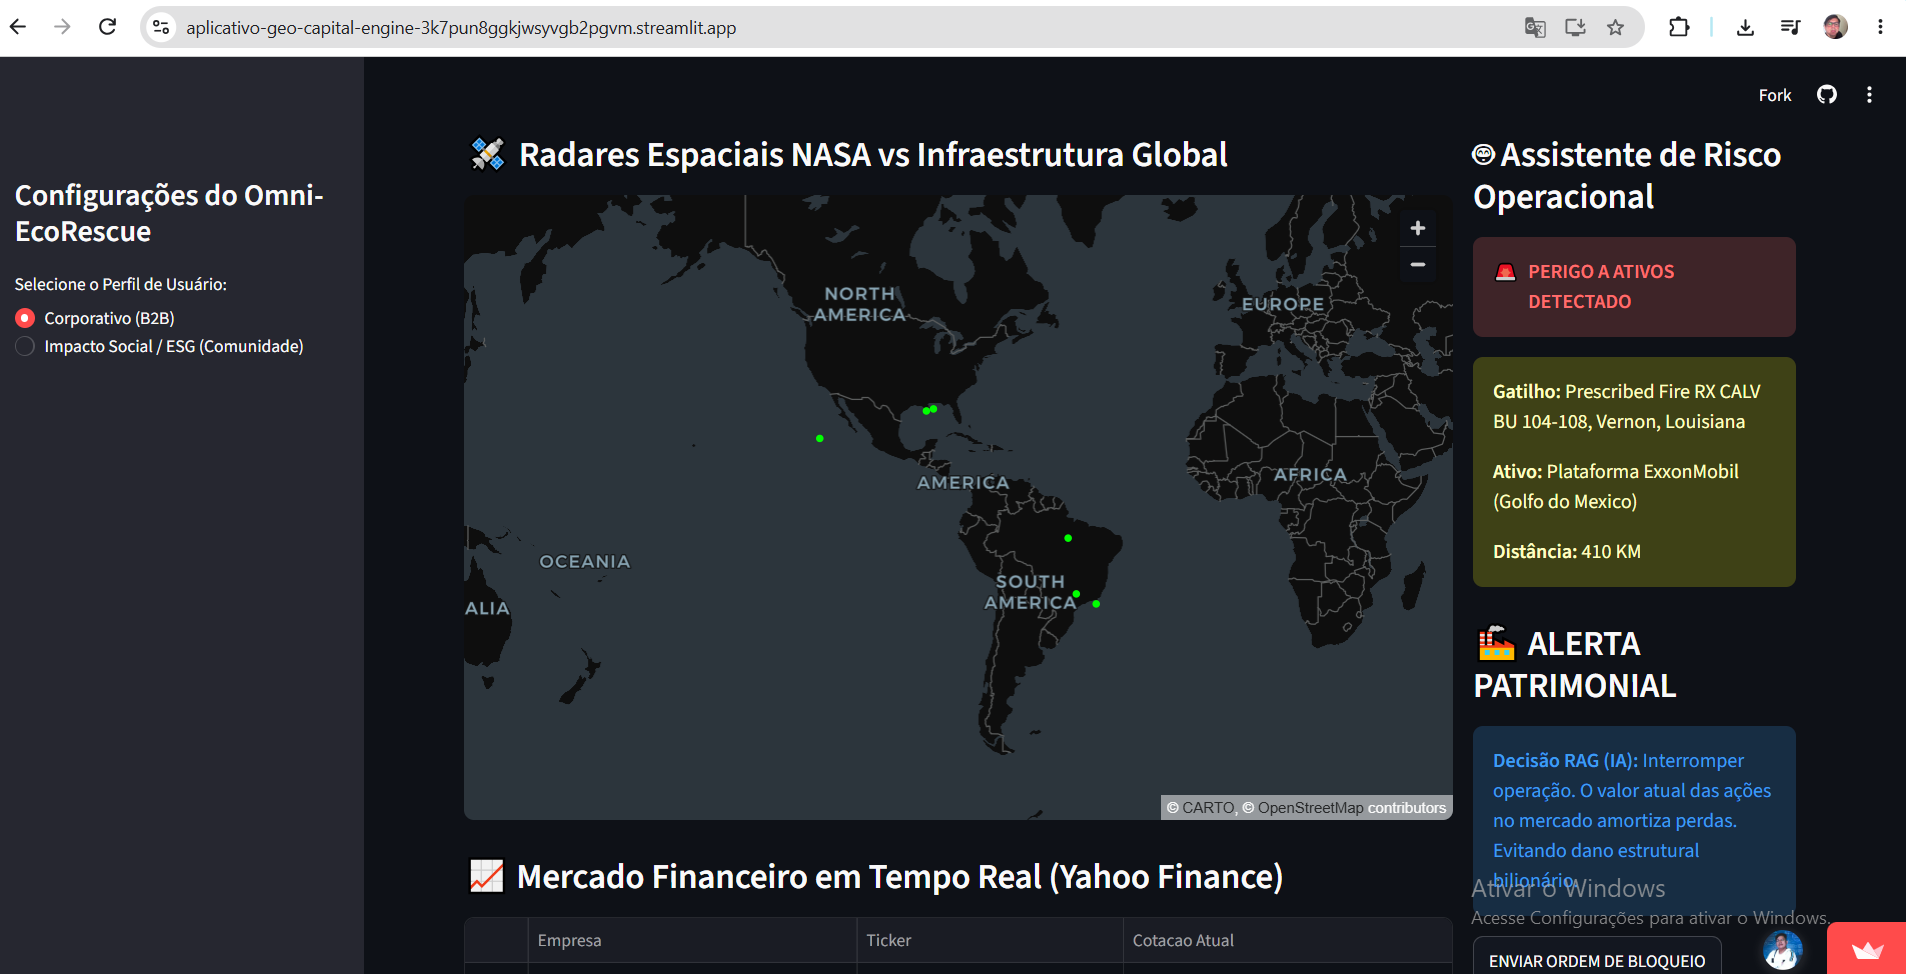
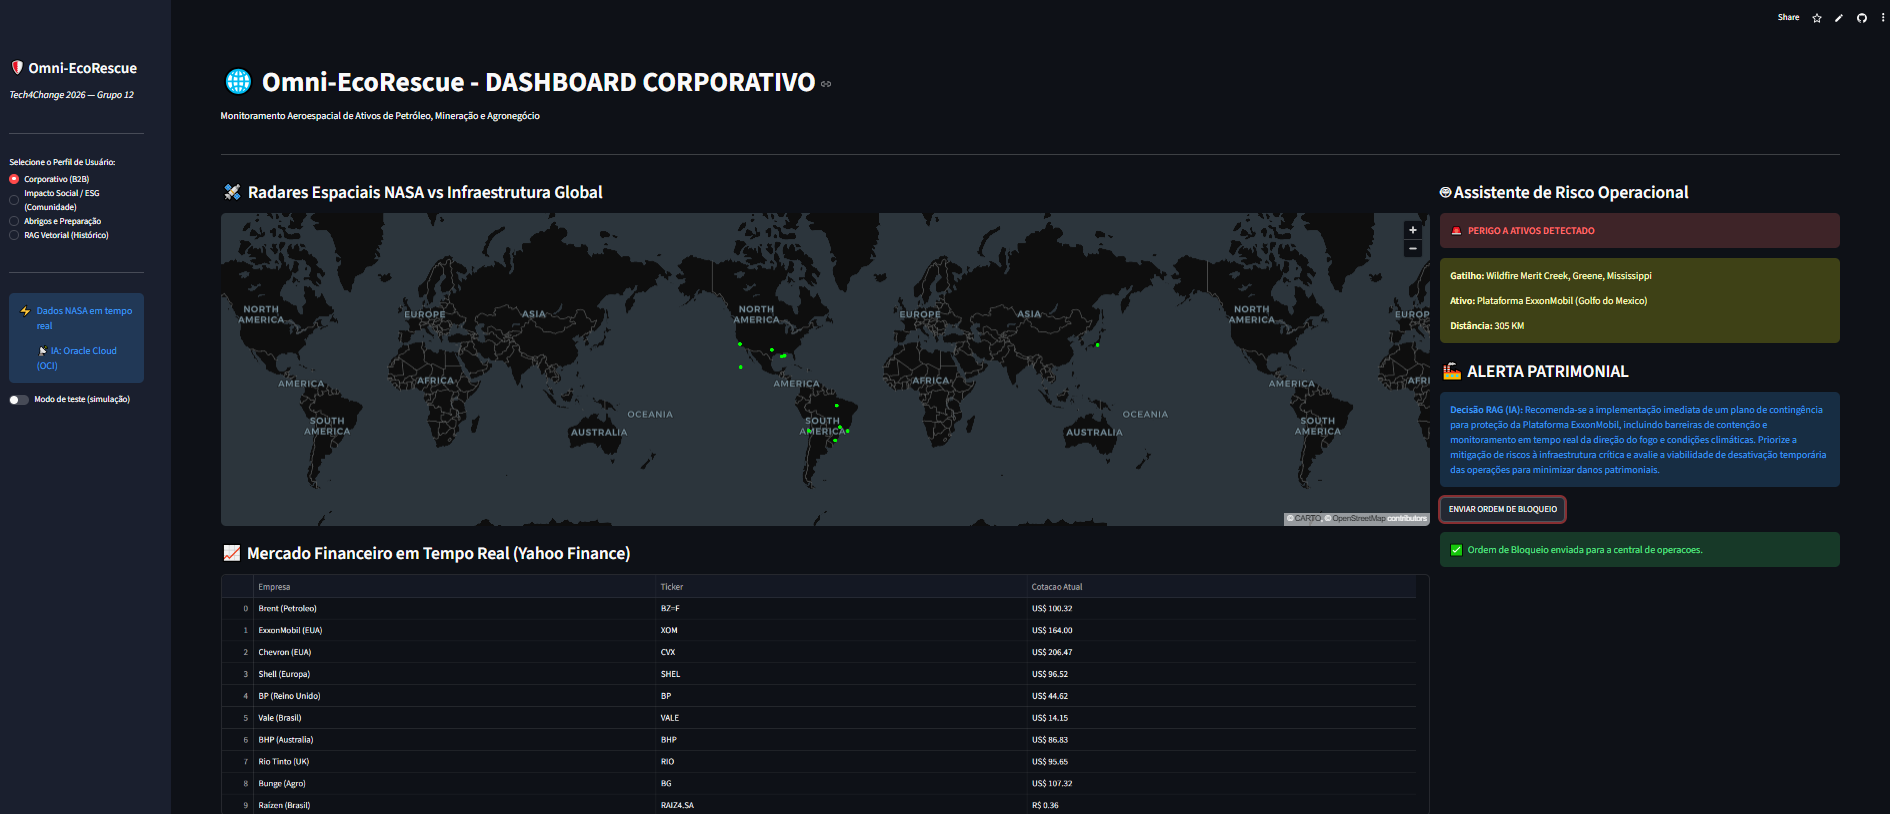
docs: novas capturas de tela (alerta real, ESG e modo de teste)

diff --git a/README.md b/README.md
@@ -106,6 +106,10 @@ O motor de recomendação (`backend/oracle_rag.py`) funciona em dois modos:
 
 ![Centro de Comando ESG](screenshots/visao-esg.png)
 
+**Modo de teste (simulação)** — evento fictício (ciclone extratropical a 410 km da plataforma Petrobras), identificado na tela como simulação. Serve para demonstrar o caso da Bacia de Campos quando não há alerta real da NASA.
+
+![Modo de teste](screenshots/modo-teste.png)
+
 ## Documentação completa
 
 Ver `docs/documentacao_oficial_pitch.md` para a documentação oficial do projeto, incluindo a base legal (CONAMA/EIA-RIMA) e o modelo de negócio detalhado.
